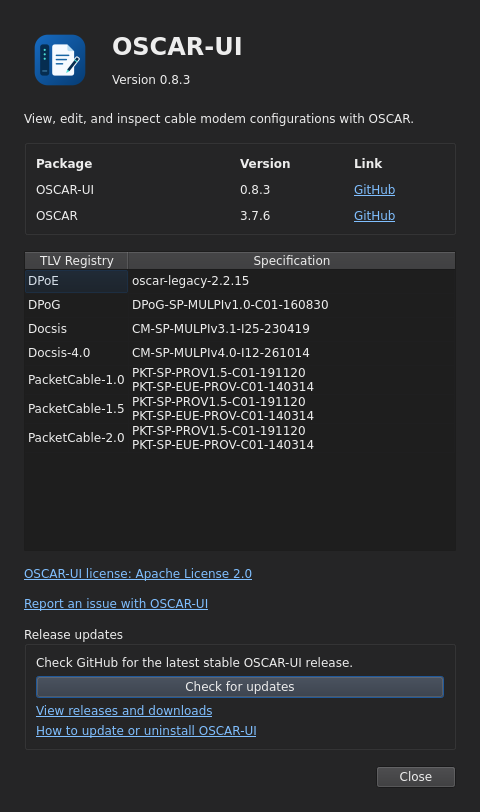
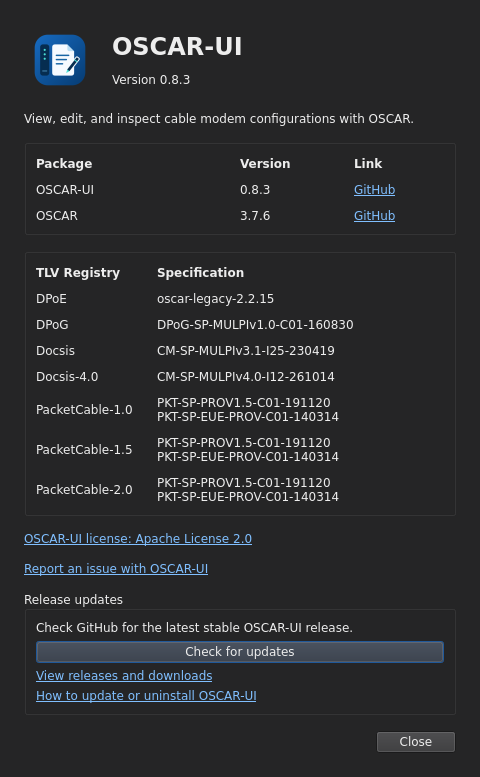
BugFix: Match About specification panel styling - Replace table with compact grouped labels - Preserve multiline specification editions - Refresh documentation and theme screenshots - Tests: Pass focused native UI and hygiene checks

diff --git a/src/main/java/io/oscarui/ui/AboutDialog.java b/src/main/java/io/oscarui/ui/AboutDialog.java
@@ -196,37 +196,35 @@ final class AboutDialog extends QDialog {
     }
 
     private QWidget registrySpecifications() {
-        var table = new QTableWidget(this);
-        table.setObjectName("registrySpecifications");
-        table.setColumnCount(2);
-        table.setWordWrap(false);
-        table.setHorizontalHeaderLabels(java.util.List.of("TLV Registry", "Specification"));
-        table.verticalHeader().hide();
-        table.verticalHeader().setMinimumSectionSize(24);
-        table.setEditTriggers(QAbstractItemView.EditTrigger.NoEditTriggers);
-        table.setSelectionMode(QAbstractItemView.SelectionMode.NoSelection);
-        table.horizontalHeader().setSectionResizeMode(0, QHeaderView.ResizeMode.ResizeToContents);
-        table.horizontalHeader().setSectionResizeMode(1, QHeaderView.ResizeMode.Stretch);
-        table.setMinimumHeight(300);
-        table.setToolTip("File types and source editions from the bundled OSCAR registry. "
+        var panel = new QGroupBox();
+        panel.setObjectName("registrySpecifications");
+        var grid = new QGridLayout(panel);
+        grid.setHorizontalSpacing(24);
+        grid.setVerticalSpacing(12);
+        grid.setColumnStretch(1, 1);
+        grid.addWidget(new QLabel("<b>TLV Registry</b>"), 0, 0);
+        grid.addWidget(new QLabel("<b>Specification</b>"), 0, 1);
+        panel.setToolTip("File types and source editions from the bundled OSCAR registry. "
                 + "Source provenance does not imply complete specification compliance.");
         try {
             var types = new io.oscarui.service.OscarDocumentService().types();
-            table.setRowCount(types.size());
             for (int row = 0; row < types.size(); row++) {
                 var type = types.get(row);
-                table.setItem(row, 0, new QTableWidgetItem(type.header()));
-                var edition = new QTableWidgetItem(type.edition().replace(" + ", "\n"));
+                var fileType = new QLabel(type.header());
+                fileType.setObjectName("registryFileType" + row);
+                fileType.setTextFormat(Qt.TextFormat.PlainText);
+                grid.addWidget(fileType, row + 1, 0);
+                var edition = new QLabel(type.edition().replace(" + ", "\n"));
+                edition.setObjectName("registryEdition" + row);
+                edition.setTextFormat(Qt.TextFormat.PlainText);
                 edition.setToolTip(type.edition());
-                table.setItem(row, 1, edition);
+                grid.addWidget(edition, row + 1, 1);
             }
-            table.resizeRowsToContents();
         } catch (io.oscarui.service.InspectionException exception) {
-            table.setRowCount(1);
-            table.setItem(0, 0, new QTableWidgetItem("Unavailable"));
-            table.setItem(0, 1, new QTableWidgetItem("Cannot read bundled registry metadata"));
+            grid.addWidget(new QLabel("Unavailable"), 1, 0);
+            grid.addWidget(new QLabel("Cannot read bundled registry metadata"), 1, 1);
         }
-        return table;
+        return panel;
     }
 
     private void requestWindowsUpdate() {

diff --git a/src/test/java/io/oscarui/ui/MainWindowTest.java b/src/test/java/io/oscarui/ui/MainWindowTest.java
@@ -1087,14 +1087,15 @@ class MainWindowTest {
         var dialog = new AboutDialog(null, result::get);
         dialog.show();
         try {
-            var registry = dialog.findChild(QTableWidget.class, "registrySpecifications");
+            var registry = dialog.findChild(QGroupBox.class, "registrySpecifications");
+            assertNotNull(registry);
             var types = new OscarDocumentService().types();
-            assertEquals(types.size(), registry.rowCount());
-            assertEquals("TLV Registry", registry.horizontalHeaderItem(0).text());
-            assertEquals("Specification", registry.horizontalHeaderItem(1).text());
+            assertEquals(2 + types.size() * 2, registry.findChildren(QLabel.class).size());
             for (int row = 0; row < types.size(); row++) {
-                assertEquals(types.get(row).header(), registry.item(row, 0).text());
-                assertEquals(types.get(row).edition().replace(" + ", "\n"), registry.item(row, 1).text());
+                assertEquals(types.get(row).header(),
+                        registry.findChild(QLabel.class, "registryFileType" + row).text());
+                assertEquals(types.get(row).edition().replace(" + ", "\n"),
+                        registry.findChild(QLabel.class, "registryEdition" + row).text());
             }
             var uninstall = dialog.findChild(QPushButton.class, "uninstallButton");
             assertFalse(uninstall.isVisible());

diff --git a/docs/ui/about.md b/docs/ui/about.md
@@ -10,8 +10,8 @@ Choose **Help → About** to see installed component versions in the
 **Package | Version | Link** table. Project links open OSCAR-UI and OSCAR on GitHub. The license link opens OSCAR-UI's license in its repository.
 Below the version table, **TLV Registry | Specification** lists each supported
 file type and its source edition from the bundled OSCAR JAR. Multiple source
-specifications appear on separate lines within the same cell. The table scrolls
-to show additional file types; hover over an edition to see its full text.
+specifications appear on separate lines within the same cell. The compact panel matches the version panel styling without a table header bar
+or unused rows; hover over an edition to see its full source text.
 These editions identify registry sources, not complete specification compliance.
 
 **Report an issue with OSCAR-UI** opens the project's GitHub issue form in your

diff --git a/docs/development/architecture/ui-architecture.md b/docs/development/architecture/ui-architecture.md
@@ -264,7 +264,9 @@ injects a temporary settings store.
 ## About and release checks
 
 The About panel displays a read-only **TLV Registry | Specification** grid below
-the package/version grid, aligned to the same content width. File types and
+the package/version grid, aligned to the same content width. Both use grouped
+label layouts with bold headings and content-sized height, without table
+selection, header bars, or a fixed-height empty area. File types and
 edition text come from `OscarDocumentService.types()` and the bundled OSCAR
 catalogs, without a second UI specification list. Multi-source editions separated
 by ` + ` render on separate lines in one cell; the complete source text remains
